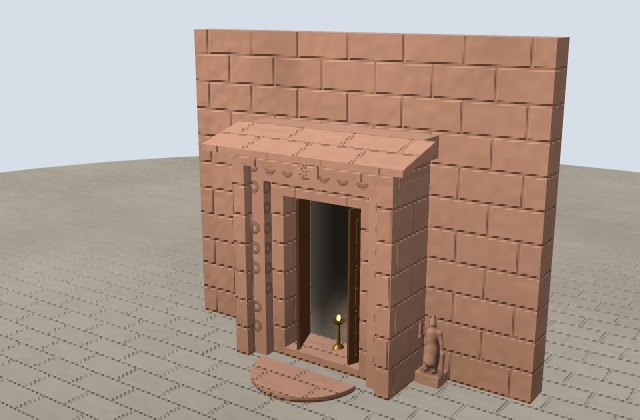
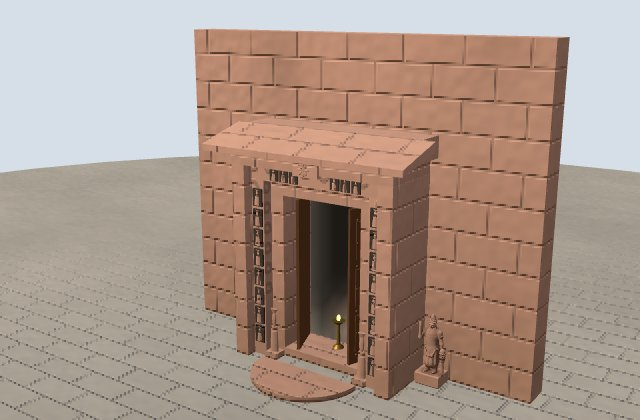
Temples: carved door jambs and makara water spouts; Cooch Behar louvred shutters; glazed backs to the Capitol sun-breakers
Claude-Session: https://claude.ai/code/session_01TMbkMUwCUQfd5rFm58379h

diff --git a/js/details/doorways.js b/js/details/doorways.js
@@ -1,5 +1,7 @@
 import * as THREE from 'three';
-import { mat, mesh, box, cyl, at, surface, pidaRoof, bell, kalash } from '../helpers.js';
+import { M, mat, mesh, box, cyl, at, surface, pidaRoof, bell, kalash, inst, unitBox } from '../helpers.js';
+import { mergeGeometries } from 'three/addons/utils/BufferGeometryUtils.js';
+import { detail } from '../detail.js';
 import { D, frieze, rosette, bracketGeo, chhajja } from './components.js';
 import { guardian } from './figures.js';
 import { elephant, lion, horse } from './animals.js';
@@ -150,9 +152,10 @@ export function doorFrame(w, h, { bands = 3, bw = 0.3, depth = 1.2, d0 = depth *
 // A temple doorway on a wall face: a stepped frame, a figure block in the middle of the lintel, a
 // hood above, timber leaves standing open with a dim sanctum and a lamp behind, a raised threshold
 // and a half-moon stone, and guardians at the foot of the frame. Sized by the opening w × h.
+// shakha (desktops): the carved jambs of a dvarashakha (shakhas below).
 export function templeDoorway(w, h, {
   m, bands = 3, bw = Math.min(0.42, Math.max(0.2, w * 0.17)), depth = null, guardians = true, guardianH = Math.min(1.8, h * 0.42),
-  hood = true, open = 1.2, moon = true, leafM = TIMBER,
+  hood = true, open = 1.2, moon = true, leafM = TIMBER, shakha = true,
 } = {}) {
   const g = new THREE.Group();
   const d0 = Math.max(0.55, (w / 2) * Math.sin(open) + 0.08), dep = Math.max(d0 + 0.15, depth || d0 + 0.45);
@@ -162,6 +165,7 @@ export function templeDoorway(w, h, {
   // The lintel's figure block (lalatabimba) and a carved rosette on it.
   g.add(box(bw * 1.8, bw * 1.3, 0.12, m, 0, h + (bands - 1) * bw - bw * 0.15, dep));
   g.add(at(rosette(bw * 0.45, m, 8), 0, h + (bands - 0.5) * bw - 0.05, dep + 0.12));
+  if (shakha && !detail.low && bands >= 2) g.add(shakhas(w, h, bands, bw, d0, dep, m));
   // Inside: the dim room, a lamp, the threshold, and the leaves standing open.
   g.add(at(interior(w * 0.999, h * 0.999), 0, 0, 0.012));
   g.add(at(lamp(Math.min(1.4, h / 3)), 0, 0.18, 0.28));
@@ -176,6 +180,75 @@ export function templeDoorway(w, h, {
   if (guardians) for (const s of [-1, 1]) g.add(at(guardian(guardianH, m), s * (outerW / 2 + guardianH * 0.21), 0, guardianH * 0.17));
   g.userData = { outerW: outerW + (guardians ? guardianH * 0.84 : 0), outerH: outerH + (hood ? 0.55 : 0), depth: dep };
   return g;
+}
+
+// The carved jambs of a temple door (dvarashakha), laid over the bands of doorFrame(w, h, { bands,
+// bw, d0, depth }): every other band (the carved ones) is filled up its jambs and across its lintel
+// with a column of little figures, each standing in a shallow niche; on the lintel of the
+// innermost carved band they sit in a row of nine (the navagrahas), leaving the middle to the
+// figure block; and at the foot of the innermost band stand the river goddesses, Ganga and Yamuna,
+// on their low pedestals. The figures are instanced.
+const FIG_GEO = mergeGeometries([new THREE.CylinderGeometry(0.28, 0.36, 0.62, 6).translate(0, 0.31, 0), new THREE.SphereGeometry(0.2, 8, 6).translate(0, 0.8, 0), new THREE.CylinderGeometry(0.33, 0.1, 0.12, 6).translate(0, 1.0, 0)].map((g) => g.toNonIndexed()));
+export function shakhas(w, h, bands, bw, d0, depth, m) {
+  const g = new THREE.Group(), niches = [], figs = [], step = bw * 1.35;
+  const dOf = (k) => d0 + ((depth - d0) * k) / Math.max(1, bands - 1);
+  for (let k = 1; k < bands; k += 2) {
+    const x = w / 2 + k * bw + bw / 2, jh = h + k * bw, z = dOf(k);
+    for (const s of [-1, 1]) for (let y = bw * 0.9; y + step <= jh - bw * 0.2; y += step) {
+      niches.push([s * x, y, z, bw * 0.74, step * 0.86, 0.04]);
+      figs.push([s * x, y + step * 0.06, z + 0.02, bw * 0.62, step * 0.72, bw * 0.3]);
+    }
+    // The lintel: nine figures on the innermost carved band, every other place on the outer ones.
+    const n = k === 1 ? 9 : Math.floor((w + 2 * k * bw) / step), span = w + 2 * k * bw - bw;
+    for (let i = 0; i < n; i++) {
+      const lx = -span / 2 + (i + 0.5) * (span / n);
+      if (Math.abs(lx) < bw * 1.1) continue;
+      niches.push([lx, jh + bw * 0.08, z, (span / n) * 0.82, bw * 0.84, 0.04]);
+      figs.push([lx, jh + bw * 0.12, z + 0.02, Math.min(bw * 0.6, (span / n) * 0.62), bw * 0.72, bw * 0.3]);
+    }
+  }
+  g.add(inst(unitBox(), niches, M.recess), inst(FIG_GEO, figs, m));
+  // Ganga and Yamuna at the foot of the innermost band, a third of the door's height.
+  const gh = h * 0.3, z0 = d0;
+  for (const s of [-1, 1]) {
+    const x = s * (w / 2 + bw / 2);
+    g.add(box(bw * 0.95, gh * 0.12, 0.3, m, x, 0, z0 + 0.15));
+    const fig = inst(FIG_GEO, [[x, gh * 0.12, z0 + 0.15, bw * 0.9, gh * 0.85, bw * 0.45]], m);
+    g.add(fig);
+  }
+  return g;
+}
+
+// A water spout (pranala) carrying the water of the sanctum's ablutions out through its wall: a
+// channelled trough `len` long projecting from the wall at z = 0 along +z, carried on a moulded
+// corbel, ending in the head of a makara (a crocodile-like beast) with open jaws, its snout curling
+// up into a trunk; under its mouth, on the ground `drop` below, a small stone basin. Its sill is at
+// y = 0. size scales the whole spout (1: a trough 0.55 wide), not its length or drop.
+export function pranala(len, m, { drop = 0, size = 1 } = {}) {
+  const o = new THREE.Group(), g = new THREE.Group(), u = 0.55;
+  len /= size;
+  drop /= size;
+  g.add(box(u, 0.14, len, m, 0, 0, len / 2));
+  for (const s of [-1, 1]) g.add(box(0.1, 0.24, len, m, s * (u / 2 - 0.05), 0.14, len / 2));
+  g.add(box(u * 0.9, 0.06, len - 0.1, M.recess, 0, 0.14, len / 2 - 0.05));
+  // The corbel under the trough at the wall: three steps out.
+  [[0.3, 0.55], [0.3, 0.38], [0.3, 0.2]].forEach(([hh, dd], i) => g.add(box(u * 1.1, hh, dd, m, 0, -0.3 * (i + 1), dd / 2)));
+  // The makara head: the skull, the long upper jaw curling up into a trunk, the lower jaw open
+  // beneath it, eyes, and ears laid back.
+  const H = at(new THREE.Group(), 0, 0.18, len);
+  const skull = mesh(new THREE.SphereGeometry(0.34, 10, 8), m);
+  skull.scale.set(1, 0.85, 1.15);
+  H.add(skull);
+  const jaw = mesh(new THREE.ConeGeometry(0.22, 0.7, 8).rotateX(Math.PI / 2), m, 0, 0.08, 0.55);
+  const low = mesh(new THREE.ConeGeometry(0.16, 0.5, 8).rotateX(Math.PI / 2 + 0.35), m, 0, -0.2, 0.42);
+  const curl = new THREE.CatmullRomCurve3([[0, 0.1, 0.8], [0, 0.16, 0.94], [0, 0.32, 1.0], [0, 0.46, 0.92], [0, 0.48, 0.8], [0, 0.4, 0.74]].map((p) => new THREE.Vector3(...p)));
+  const trunk = mesh(new THREE.TubeGeometry(curl, 12, 0.075, 6, false), m);
+  H.add(jaw, low, trunk, at(mesh(new THREE.SphereGeometry(0.075, 6, 5), m), 0, 0.4, 0.74));
+  for (const s of [-1, 1]) H.add(at(mesh(new THREE.SphereGeometry(0.07, 6, 5), M.recess), s * 0.22, 0.16, 0.26), at(mesh(new THREE.SphereGeometry(0.14, 6, 5).scale(0.5, 1, 1.4), m), s * 0.3, 0.2, -0.12));
+  g.add(H);
+  if (drop > 0) g.add(box(1.2, 0.35, 1.2, m, 0, -drop, len + 0.7), box(0.9, 0.06, 0.9, M.recess, 0, -drop + 0.31, len + 0.7));
+  g.scale.setScalar(size);
+  return o.add(g);
 }
 
 // An open porch (mukhamandapa) in front of a wall at z = 0: two free columns at the front and two

diff --git a/js/details/capitol-complex.js b/js/details/capitol-complex.js
@@ -6,14 +6,14 @@ import { trees, along } from './realism.js';
 
 // The Capitol Complex, finer detail. From photographs of Le Corbusier's buildings: the great pivoting
 // door of the Palace of Assembly, enamelled in Le Corbusier's own design in squares of bright colour;
-// the Assembly's side walls screened by a deep egg-crate brise-soleil; and the High Court's front
+// the Assembly's side walls screened by a deep egg-crate brise-soleil, glazed at the back of its cells; and the High Court's front
 // shaded by a grid of concrete fins and shelves; the Assembly's glazed front behind its portico and
 // the slanted lid of its tower; the Secretariat's joints, blank ends and roof; the Tower of Shadows
 // and the Geometric Hill on the esplanade, and the esplanade's paving joints. Dimensions follow js/monuments/capitol-complex.js:
 // the Assembly 64 square and 16 high at the origin; the High Court 90 × 18 × 30, turned to face
 // south at (60, 0, HC).
 const CONCRETE = photo(mat('#b3aea4', 0.95), 'concrete'), CONCRETE_DARK = photo(mat('#8f8a80', 0.95), 'concrete');
-const GLASS = surface(mat('#3e4246', 0.4, 0.2), 'none'), JOINT = surface(mat('#77736b', 0.95), 'none');
+const GLASS = surface(mat('#3e4246', 0.4, 0.2), 'none'), BACK_GLASS = surface(mat('#58626b', 0.3, 0.2), 'none'), JOINT = surface(mat('#77736b', 0.95), 'none');
 const ENAMEL = ['#d23a2a', '#f2c230', '#2f5d9a', '#3d8a4f', '#f1ede4', '#1f1f22'].map((c) => mat(c, 0.35));
 function architecture(f, g) {
   const d = new THREE.Group();
@@ -23,16 +23,20 @@ function architecture(f, g) {
   for (const s of [-1, 1]) {
     for (let k = 0; k <= 20; k++) d.add(new THREE.Mesh(new THREE.BoxGeometry(1.4, 15, 0.3), CONCRETE_DARK).translateX(s * 32.7).translateY(8).translateZ(-30 + k * 3));
     for (let y = 2; y < 16; y += 3.2) d.add(new THREE.Mesh(new THREE.BoxGeometry(1.4, 0.3, 60.3), CONCRETE_DARK).translateX(s * 32.7).translateY(y));
+    // The glazing at the back of the cells, so the screen reads as deep boxes of shade.
+    d.add(box(0.06, 14.4, 60, BACK_GLASS, s * 32.04, 0.8, 0));
   }
   const hc = at(new THREE.Group(), 60, 0, HC);
   hc.rotation.y = Math.PI;
   for (let k = 0; k <= 30; k++) hc.add(new THREE.Mesh(new THREE.BoxGeometry(0.3, 17.6, 1.6), CONCRETE_DARK).translateX(-44 + k * (88 / 30)).translateY(8.8).translateZ(15.8));
   for (const y of [4.5, 9, 13.5]) hc.add(new THREE.Mesh(new THREE.BoxGeometry(88.3, 0.3, 1.6), CONCRETE_DARK).translateY(y).translateZ(15.8));
+  hc.add(box(88, 16.4, 0.06, BACK_GLASS, 0, 0.6, 15.04));
   g.add(mergeByMaterial(hc));
 
   // The Assembly's back, screened like its sides.
   for (let k = 0; k <= 20; k++) d.add(new THREE.Mesh(new THREE.BoxGeometry(0.3, 15, 1.4), CONCRETE_DARK).translateX(-30 + k * 3).translateY(8).translateZ(-32.7));
   for (let y = 2; y < 16; y += 3.2) d.add(new THREE.Mesh(new THREE.BoxGeometry(60.3, 0.3, 1.4), CONCRETE_DARK).translateY(y).translateZ(-32.7));
+  d.add(box(60, 14.4, 0.06, BACK_GLASS, 0, 0.8, -32.04));
   // Its front, behind the portico: three floors of square windows set deep in the concrete, either
   // side of the enamelled door.
   for (let i = 0; i < 16; i++) for (let j = 0; j < 3; j++) {

diff --git a/js/details/mughal.js b/js/details/mughal.js
@@ -2,7 +2,7 @@ import * as THREE from 'three';
 import { M, mat, mesh, box, at, rise, surface, doubleSided } from '../helpers.js';
 import { mergeGeometries } from 'three/addons/utils/BufferGeometryUtils.js';
 import { detail } from '../detail.js';
-import { archCurve, archRing, archSlab, tympanum, niche, jali, rosette, merlons, mergeByMaterial } from './components.js';
+import { archCurve, archRing, archSlab, tympanum, niche, jali, rosette, merlons, louvredShutter, mergeByMaterial } from './components.js';
 import { interior, doorLeaves, steps } from './doorways.js';
 
 // Doorways, iwans and arcades for the Mughal, Indo-Islamic, Nawabi, Qutb Shahi and Deccan
@@ -166,17 +166,21 @@ export function iwan(w, h, {
 // shallower and set this in front of it, so the block's own face is the back of every cell. What
 // each cell shows at its back, `fill` (or a fifth entry on the cell): 'door', a small framed door
 // in the back wall, which stands in shade under the arch; 'room', an opening onto a dim gallery;
-// 'jali', a pierced screen as a window; 'none', the bare back wall. cells: [[cx, sill, aw, ah, fill?]].
+// 'jali', a pierced screen as a window; 'shutters', a window onto a dim room closed below its
+// springing by louvred shutters (on phones, 'room'); 'none', the bare back wall.
+// cells: [[cx, sill, aw, ah, fill?]].
 // pointed: false gives round arches, for the colonial and Indo-Saracenic arcades.
 export function arcadeSkin(len, h, cells, depth, m, { trim = m, ring = true, fill = 'door', pointed = true } = {}) {
   const g = new THREE.Group();
   g.add(pierced(len, h, cells, depth, m, pointed));
   for (const [cx, sill, aw, ah, own] of cells) {
-    const kind = own || fill;
+    let kind = own || fill;
+    if (kind === 'shutters' && detail.low) kind = 'room';
     if (ring) g.add(at(archRing(aw, ah, pointed, Math.min(0.22, aw * 0.06), 0.05, trim), cx, sill, depth));
     // A sill slab whose top stands just above the opening's floor, so the two never share a plane.
     if (sill > 0.01) g.add(box(aw - 0.02, 0.14, depth - 0.04, trim, cx, sill - 0.12, depth / 2));
-    if (kind === 'room') g.add(at(interior(aw * 0.999, ah, 0.2, 0), cx, sill, 0.012));
+    if (kind === 'room' || kind === 'shutters') g.add(at(interior(aw * 0.999, ah, 0.2, 0), cx, sill, 0.012));
+    if (kind === 'shutters') g.add(at(louvredShutter(aw * 0.97, ah - rise(aw / 2, pointed)), cx, sill, 0.05));
     if (kind === 'jali') g.add(at(archSlab(aw * 0.999, ah * 0.999, pointed, M.recess, 0.03), cx, sill, 0.012), at(archSlab(aw * 0.998, ah * 0.998, pointed, jali(trim), 0.05), cx, sill, 0.05));
     if (kind === 'door') {
       const s = ah - rise(aw / 2, pointed), dw = Math.min(aw * 0.46, 1.5), dh = Math.min(s * 0.92, dw * 2.1), f = Math.max(0.1, dw * 0.1);

diff --git a/js/details/components.js b/js/details/components.js
@@ -760,3 +760,24 @@ export function inlayBorder(w, h, band, base, inlay, { every = band * 2.2 } = {}
   }
   return g;
 }
+
+// Louvred shutters, as on the windows of colonial Bengal: two leaves closed across an opening w × h
+// from y = 0, standing `out` in front of z = 0, each a frame of stiles and rails round a panel of
+// angled slats about 14 cm apart, a middle rail at a third of the height; in green by default.
+const SHUTTER = surface(mat('#3f6b4f', 0.75), 'none');
+export function louvredShutter(w, h, m = SHUTTER, { out = 0.06 } = {}) {
+  const g = new THREE.Group(), lw = w / 2, st = Math.min(0.09, lw * 0.1), slats = [];
+  for (const s of [-1, 1]) {
+    const cx = s * lw / 2;
+    for (const x of [cx - lw / 2 + st / 2, cx + lw / 2 - st / 2]) g.add(box(st, h, 0.06, m, x, 0, out));
+    for (const y of [0, h / 3, h - st]) g.add(box(lw, st, 0.06, m, cx, y, out));
+    const n = Math.max(3, Math.round((h - 2 * st) / 0.14));
+    for (let k = 0; k < n; k++) {
+      const y = st + (k + 0.5) * ((h - 2 * st) / n);
+      if (Math.abs(y - h / 3 - st / 2) < 0.08) continue;
+      slats.push(new THREE.BoxGeometry(lw - 2 * st, 0.02, 0.09).rotateX(0.6).translate(cx, y, out));
+    }
+  }
+  g.add(mesh(mergeGeometries(slats.map((b) => b.toNonIndexed())), m));
+  return g;
+}

diff --git a/js/monuments/ramappa-temple.js b/js/monuments/ramappa-temple.js
@@ -1,6 +1,6 @@
 import * as THREE from 'three';
 import { M, mat, box, at, group, starPrism, pidaRoof, kalash, inst, unitCyl, surface, photo } from '../helpers.js';
-import { templeDoorway, steps } from '../details/doorways.js';
+import { pranala, templeDoorway, steps } from '../details/doorways.js';
 import { mergeByMaterial } from '../details/components.js';
 import { nandi } from '../details/animals.js';
 import { figure, instances, kutaGeo } from '../details/sculpture.js';
@@ -40,6 +40,8 @@ export function buildRamappa() {
   f.add(mergeByMaterial(group(at(templeDoorway(1.7, 3.6, { m: DOLERITE, bands: 4 }), 0, B, -4), at(steps(5, B, 7, SAND), 0, 0, 15))));
   // Sanctum on its dark base, under the light-brick tower
   f.add(box(12, 7, 12, DOLERITE, 0, B, -10), box(13, 0.6, 13, SAND, 0, B + 7, -10));
+  // The spout (pranala) draining the sanctum, out through its north wall onto the platform.
+  f.add(at(pranala(2.2, DOLERITE, { drop: 0.6 }), -6, B + 0.6, -10).rotateY(-Math.PI / 2));
   // The tower is of the famous light bricks, porous enough to float, pale and rough; a miniature
   // shrine (kuta) stands at each corner and the middle of each face on every storey's ledge.
   const tower = pidaRoof(12, 4.5, 7, 1.1, BRICK, mat('#a7735a', 0.95));

diff --git a/js/monuments/kandariya-mahadeva.js b/js/monuments/kandariya-mahadeva.js
@@ -1,6 +1,6 @@
 import * as THREE from 'three';
 import { M, mesh, box, cyl, at, onFace, FACES, kalash, bell, shikhara, pidaRoof, aroundRect } from '../helpers.js';
-import { templeDoorway, steps, grandStair } from '../details/doorways.js';
+import { pranala, templeDoorway, steps, grandStair } from '../details/doorways.js';
 import { mergeByMaterial } from '../details/components.js';
 import { figureRow } from '../details/sculpture.js';
 import { addDetails } from '../details/kandariya-mahadeva.js';
@@ -14,6 +14,9 @@ export function buildKandariya() {
   f.add(at(grandStair(3, 8, Sd, S, { n: 15, landing: 0, cheek: 0.8 }), 0, 0, 32));
   // Moulded base and sculpted wall, with projecting balconies on the halls
   f.add(box(24, 2, 42, S, 0, 3, -4), box(22, 6, 40, S, 0, 5, -4));
+  // The spout (pranala) draining the sanctum, out through the north face of the base onto the
+  // jagati.
+  f.add(at(pranala(2, S, { drop: 1.5 }), -12, 4.5, -16).rotateY(-Math.PI / 2));
   for (const [z, d] of [[0, 9], [12.25, 7.5]]) f.add(box(29, 3.6, d, S, 0, 6, z), box(30.5, 0.6, d + 1.5, Sd, 0, 9.6, z));
   const figs = [];
   // The sculpted figures run round the walls, leaving the doorway clear.

diff --git a/js/monuments/kamakhya-temple.js b/js/monuments/kamakhya-temple.js
@@ -2,7 +2,7 @@ import * as THREE from 'three';
 import { M, mat, mesh, box, cyl, lathe, at, ribbed, kalash, hipRoof, FACES, onFace, sheet, flat } from '../helpers.js';
 import { heightField, fbm, smooth } from '../details/terrain.js';
 import { detail } from '../detail.js';
-import { templeDoorway } from '../details/doorways.js';
+import { pranala, templeDoorway } from '../details/doorways.js';
 import { mergeByMaterial, templeNiche, idol } from '../details/components.js';
 import { addDetails } from '../details/kamakhya-temple.js';
 
@@ -61,6 +61,8 @@ export function buildKamakhya() {
     s.position.z += -14;
     f.add(s);
   }
+  // The spout (pranala) draining the sanctum, out through the west face of its base.
+  f.add(at(pranala(2, STONE_DARK, { drop: 1.3 }), -11, T + 1.3, -8).rotateY(-Math.PI / 2));
   // Calantapa (antechamber) and the Natmandir hall with curved roofs
   f.add(box(12, 7, 10, STONE, 0, T, 2), at(dochala(14, 11, 6, STONE), 0, T + 7, 2));
   f.add(box(16, 6, 20, STONE, 0, T, 18), at(dochala(18, 21, 7, STONE_DARK), 0, T + 6, 18));

diff --git a/js/monuments/brihadeeswara-temple.js b/js/monuments/brihadeeswara-temple.js
@@ -1,6 +1,6 @@
 import * as THREE from 'three';
 import { M, flat, mesh, box, cyl, group, at, onFace, FACES, kalash, pidaRoof } from '../helpers.js';
-import { templeDoorway, doorFrame, guardian } from '../details/doorways.js';
+import { pranala, templeDoorway, doorFrame, guardian } from '../details/doorways.js';
 import { mergeByMaterial } from '../details/components.js';
 import { nandi } from '../details/animals.js';
 import { kuta, shala } from '../details/sculpture.js';
@@ -20,6 +20,8 @@ export function buildBrihadeeswara() {
     g.add(onFace(at(mergeByMaterial(n), 0, 7, 0), a, 14.5));
   }
   g.add(box(31, 1.2, 31, d, 0, 16));
+  // The spout (pranala) that drains the sanctum, out through the north face of the base.
+  g.add(onFace(at(pranala(3.4, m, { drop: 2.8, size: 1.8 }), 0, 3.2, 0), -Math.PI / 2, 15.5, 0));
   let y = 17.2, w = 27.5;
   const tiers = 13, th = 2.9, w1 = 9.5, hara = new THREE.Group();
   for (let i = 0; i < tiers; i++) {

diff --git a/js/monuments/chennakesava-temple.js b/js/monuments/chennakesava-temple.js
@@ -1,7 +1,7 @@
 import * as THREE from 'three';
 import { M, box, group, at, pidaRoof, inst, unitCyl, aroundRect, starPrism, stellateTower } from '../helpers.js';
 import { trabeateGate } from '../details/temples.js';
-import { templeDoorway, steps } from '../details/doorways.js';
+import { pranala, templeDoorway, steps } from '../details/doorways.js';
 import { mergeByMaterial } from '../details/components.js';
 import { addDetails } from '../details/chennakesava-temple.js';
 
@@ -24,6 +24,8 @@ export function buildChennakesava() {
     for (const y of [0.5, 1.6, 2.7]) f.add(at(starPrism(16, 6.25, 5.2, 0.6, md), x, B + y, z));
     f.add(at(stellateTower(5.6, 9, m, md), x, B + 7, z));
   }
+  // The spout (pranala) draining the main shrine, out through its back onto the platform.
+  f.add(at(pranala(2.2, m, { drop: 0.5 }), 0, B + 0.5, -15.4).rotateY(Math.PI));
   addDetails(f, g);
   return { group: g, focus: f, view: [0.85, 0.55, 1.15] };
 }

diff --git a/js/monuments/cooch-behar-palace.js b/js/monuments/cooch-behar-palace.js
@@ -9,10 +9,11 @@ const BRICK = surface(mat('#a9583f', 0.85), 'brick');
 const WHITE = mat('#ece6da', 0.8);
 const METAL = mat('#8a9097', 0.45, 0.5);
 
-// Round-arched windows for a wall len long and h high: two storeys of them every 5 m.
+// Round-arched windows for a wall len long and h high: two storeys of them every 5 m, closed by
+// green louvred shutters below the arch (js/details/components.js, louvredShutter).
 function windowCells(len, h) {
   const n = Math.floor(len / 5), out = [];
-  for (let k = 0; k < n; k++) { const x = -len / 2 + (k + 0.5) * (len / n); out.push([x, 1.4, 2.2, 4.6, 'room'], [x, h / 2 + 1.8, 2.2, 4.6, 'room']); }
+  for (let k = 0; k < n; k++) { const x = -len / 2 + (k + 0.5) * (len / n); out.push([x, 1.4, 2.2, 4.6, 'shutters'], [x, h / 2 + 1.8, 2.2, 4.6, 'shutters']); }
   return out;
 }
 // A wing len long, h high and d deep (along x before turning), its foot at y = 0: brick with

diff --git a/architecture.md b/architecture.md
@@ -117,8 +117,10 @@ for (const a of FACES) d.add(onFace(at(windowFrame(2, 4.2, M.cream, { shape: 'fl
 | Arch wall with its ring | Iwan | Niche |
 | ![Window with a jali screen](img/window-jali.jpg) | ![Classical door](img/classical-door.jpg) | ![Gothic window](img/gothic-window.jpg) |
 | Window with a jali screen | Classical door | Gothic window |
-| ![Temple doorway](img/temple-doorway.jpg) | ![Iwan with muqarnas and an inscription band](img/muqarnas.jpg) |   |
-| Temple doorway | Iwan with muqarnas and an inscription band |   |
+| ![Temple doorway with carved jambs](img/temple-doorway.jpg) | ![Iwan with muqarnas and an inscription band](img/muqarnas.jpg) | ![Water spout (pranala)](img/pranala.jpg) |
+| Temple doorway with carved jambs | Iwan with muqarnas and an inscription band | Water spout (pranala) |
+| ![Louvred shutters](img/louvred-shutters.jpg) |   |   |
+| Louvred shutters |   |   |
 
 | Part | File | What it is |
 | --- | --- | --- |
@@ -131,12 +133,15 @@ for (const a of FACES) d.add(onFace(at(windowFrame(2, 4.2, M.cream, { shape: 'fl
 | `muqarnas(w, h, depth, { m, trim, tiers })` | mughal | Tiers of small faceted cells lining the half-dome of a pointed arch, staggered, with fine ledges between the tiers |
 | `scriptFrame(W, yt, bw)` | mughal | An inscription band of black letters inlaid in white marble round a pishtaq |
 | `mughalDoorway(w, h, { m })` | mughal | A pointed doorway onto a dim room |
-| `arcadeSkin(len, h, cells, depth, m)` | mughal | A wall face cut into a row of arched cells, each a door, a screen or a room |
+| `arcadeSkin(len, h, cells, depth, m)` | mughal | A wall face cut into a row of arched cells, each a door, a screen, a room, or a window closed by louvred shutters (`'shutters'`) |
+| `louvredShutter(w, h, m)` | components | Two closed leaves of angled slats in a frame of stiles and rails, green by default |
 | `windowFrame(w, h, m, { shape, screen })` | components | A window in a stone surround; `screen: jali(m)` fills it with a pierced screen |
 | `classicalDoor(w, h, { shape, fill, top })` | colonial | A classical door or sash window, with a pediment if asked |
 | `gothicDoor(w, h, …)`, `gothicWindow(w, h, …)`, `oculus(R, …)` | colonial | Gothic portal, two-light window and round window |
 | `porch(w, d, h, …)`, `pediment(w, h, depth, m)` | colonial | A columned porch; a triangular pediment |
-| `templeDoorway(w, h, { m })` | doorways | A temple door: stepped frame, hood, open leaves, a lamp in the sanctum behind, guardians |
+| `templeDoorway(w, h, { m, shakha })` | doorways | A temple door: stepped frame, hood, open leaves, a lamp in the sanctum behind, guardians; on desktops its carved jambs (`shakhas`) |
+| `shakhas(w, h, bands, bw, d0, depth, m)` | doorways | The carved jambs of a dvarashakha: columns of little figures in niches up the carved bands, nine across the lintel, Ganga and Yamuna at the foot |
+| `pranala(len, m, { drop, size })` | doorways | The water spout draining a sanctum: a channelled trough on a corbel ending in a makara head with a curled trunk, over a stone basin |
 | `doorFrame(w, h, { bands })` | doorways | The nested, carved bands round a post-and-lintel door |
 | `doorLeaves(w, h, { open, studs, spikes })` | doorways | Timber leaves, standing open; `spikes` against war elephants |
 | `interior(w, h)` | doorways | The dim room seen through an open door |

diff --git a/components.md b/components.md
@@ -41,8 +41,10 @@ From [architecture.md](architecture.md).
 | Arch wall with its ring | Iwan | Niche |
 | ![Window with a jali screen](img/window-jali.jpg) | ![Classical door](img/classical-door.jpg) | ![Gothic window](img/gothic-window.jpg) |
 | Window with a jali screen | Classical door | Gothic window |
-| ![Temple doorway](img/temple-doorway.jpg) | ![Iwan with muqarnas and an inscription band](img/muqarnas.jpg) |   |
-| Temple doorway | Iwan with muqarnas and an inscription band |   |
+| ![Temple doorway with carved jambs](img/temple-doorway.jpg) | ![Iwan with muqarnas and an inscription band](img/muqarnas.jpg) | ![Water spout (pranala)](img/pranala.jpg) |
+| Temple doorway with carved jambs | Iwan with muqarnas and an inscription band | Water spout (pranala) |
+| ![Louvred shutters](img/louvred-shutters.jpg) |   |   |
+| Louvred shutters |   |   |
 
 ### [Walls, eaves and parapets](architecture.md#walls-eaves-and-parapets)
 
